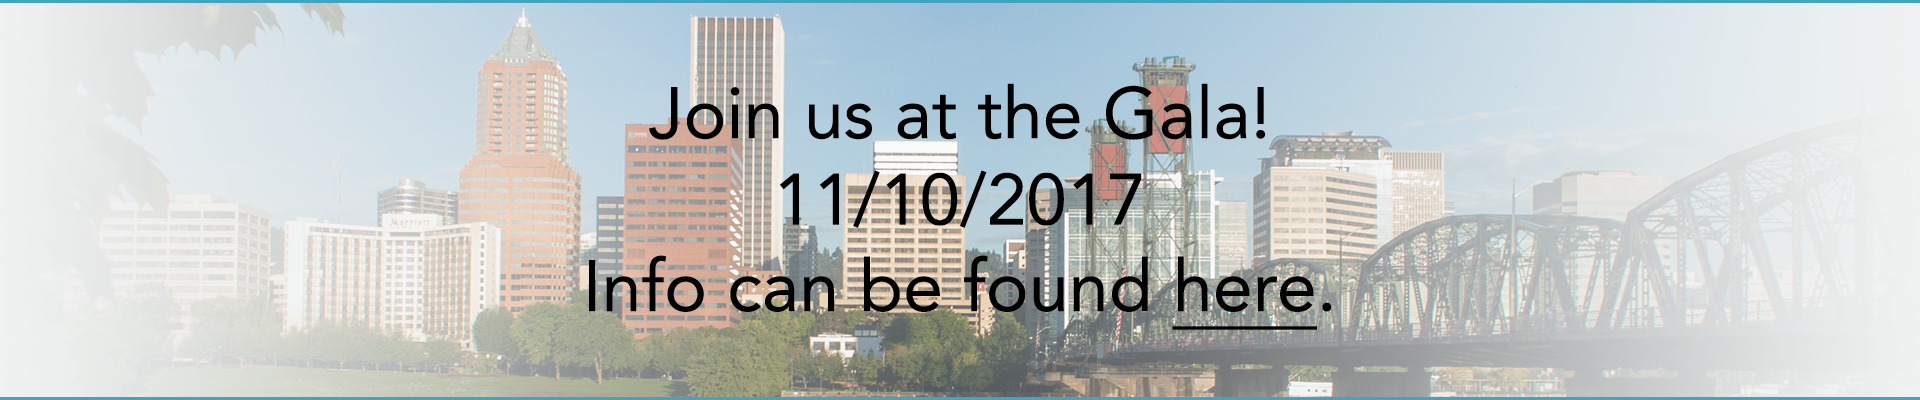
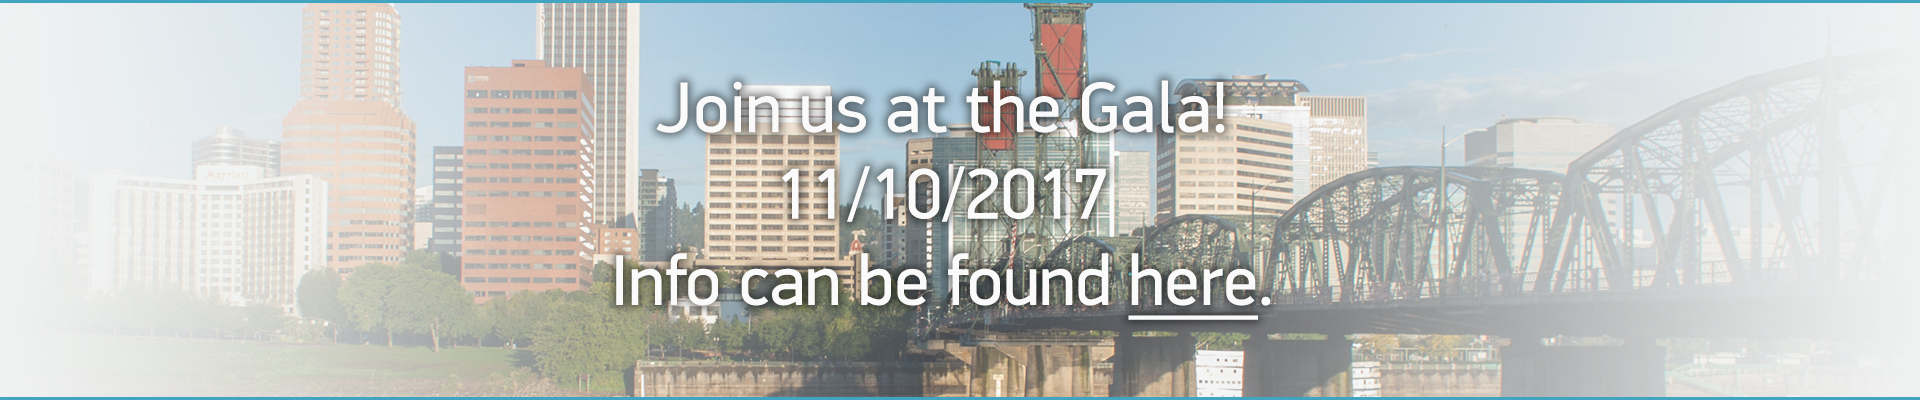
Change image font and remove mobile padding

diff --git a/src/scenes/home/landing/landing.css b/src/scenes/home/landing/landing.css
@@ -24,18 +24,18 @@
 
 @media screen and (max-width: 900px) {
   .pageHeading {
-    margin-top:5vw;
+    margin-top: 0;
   }
   .pageHeading h1 {
-    font-size:20px;
+    font-size: 20px;
   }
 }
 
 @media screen and (max-width: 500px) {
   .pageHeading {
-    margin-top:3vw;
+    margin-top: 0;
   }
   .pageHeading h1 {
-    font-size:18px;
+    font-size: 18px;
   }
 }
